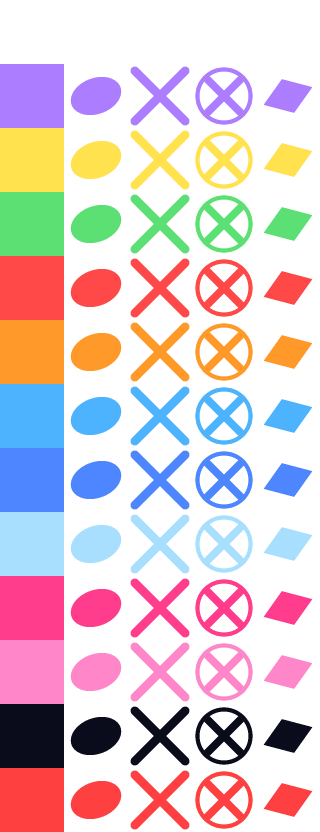
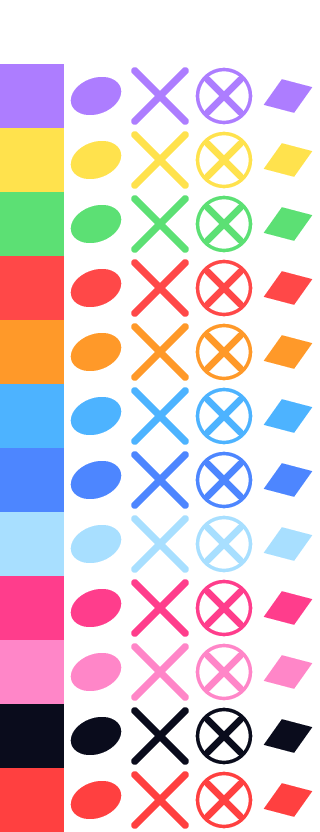
Notation view: smaller noteheads, slower scroll, smoke at SPEED 2.0
The smoke frames showed eighth-note hi-hats merging into one continuous
chain of X's, so:

- the x head drops from a 50 px cell (46 px of ink, 6.7 px strokes) to a
  40 px cell (36 px = one staff space, 4.5 px strokes), the circled x to
  42 px to match, and the round head from 54 to 48 px (38 x 29 px ink).
  The sprite sheet is regenerated for the thinner strokes, so the whole
  Runtime folder has to ship again. Ledger lines, beams and the playhead
  glow shrink to suit, and the stem attachment maths follows the new
  cell sizes (x arm tip at 15 px, ring at 18, ellipse edge at 18).
- X_SCALE 0.66 -> 0.80: about 1.65 bars of 4/4 at 120 BPM at SPEED 2.0,
  with eighths 72 px apart.
- a note sitting right at the beam line (the left crash on its second
  ledger line) no longer pushes a lone stem spike far above the beams;
  it keeps an 8 px nub instead.
- the smoke job now runs at DrumsScrollSpeed=3, which is the SPEED 2.0
  the owner plays at, and leaves SD off auto-play so the frames exercise
  the miss path (MISS popups, combo break, judgement lane flash).
- lane labels go from 13 to 15 pt now that they are measured: the glyphs
  were 12 px of capital in an 18 px lane pitch.

Claude-Session: https://claude.ai/code/session_01WKgs6DwHtoEQb9UfLX31gJ

diff --git a/DTXMania/Code/Stage/07.Performance/DrumsScreen/CActPerfDrumsNotation.cs b/DTXMania/Code/Stage/07.Performance/DrumsScreen/CActPerfDrumsNotation.cs
@@ -38,13 +38,13 @@ namespace DTXMania
                                                                     // ledger line, and the beams sit on that line
         public const int STEM_BOTTOM_Y = STAFF_BOTTOM_Y + 80;       // 460: every down-stem ends here
         public const int BAR_NUMBER_Y = 4;                          // bar number text, along the band top
-        public const double X_SCALE = 0.66;                         // horizontal px per vertical-lane px.
+        public const double X_SCALE = 0.80;                         // horizontal px per vertical-lane px.
                                                                     // The engine gives us (SPEED * 0.3575) lane px
                                                                     // per ms, so at the SPEED 2.0 setting this shows
-                                                                    // 940/(0.66*0.3575) = 4000 ms ahead = two 4/4
-                                                                    // bars at 120 BPM. The in-game SPEED setting
-                                                                    // still scales it: SPEED 1.0 shows twice as
-                                                                    // much, SPEED 4.0 half as much.
+                                                                    // 940/(0.80*0.3575) = 3290 ms ahead, about 1.65
+                                                                    // bars of 4/4 at 120 BPM, with eighths 72 px
+                                                                    // apart. The in-game SPEED setting still scales
+                                                                    // it: SPEED 1.0 shows twice as much, 4.0 half.
         public const int LOOKAHEAD_PX = 1500;                       // the chip loop normally stops feeding us chips
                                                                     // past 600 lane px, which at this X_SCALE would
                                                                     // leave the right half of the band empty
@@ -85,21 +85,21 @@ namespace DTXMania
         public const float JUDGE_SCALE = 0.8f;
 
         // Sizes derived from the staff spacing (36 px).
-        private const int HEAD_W = 54;              // round notehead cell -> 42 x 32 px head (1.2 x 0.9 spaces)
-        private const int XHEAD_W = 50;             // x notehead cell     -> 46 px wide, 6.7 px strokes
-        private const int CIRCLEX_W = 54;           // circled x (open hi-hat)
+        private const int HEAD_W = 48;              // round notehead cell -> 38 x 29 px head (1.05 x 0.8 spaces)
+        private const int XHEAD_W = 40;             // x notehead cell     -> 36 px = one space, 4.5 px strokes
+        private const int CIRCLEX_W = 42;           // circled x (open hi-hat) -> 37 px ring, matching the x
         private const int STEM_W = 4;
         private const int STEM_BITE = 4;            // round heads: the stem is set this far inside the right edge
-        private const int LEDGER_W = 62;
+        private const int LEDGER_W = 54;
         private const int LEDGER_H = 4;
         private const int LINE_H = 3;               // staff line thickness
         private const int BAR_LINE_LEAD = 20;       // bar / beat lines are drawn this far left of the
                                                     // notes on that beat, so they never run through a head
-        private const int MIN_STEM_LEN = 2 * STAFF_SPACE;   // a note close to STEM_TOP_Y (the left crash on its
-                                                            // second ledger line) pushes its own stem up so it
-                                                            // never ends up a stub
-        private const int BEAM_H = 6;
-        private const int BEAM_GAP = 11;
+        private const int MIN_STEM_LEN = 8;         // a note sitting at the beam line (the left crash on its
+                                                    // second ledger line) keeps a short nub of a stem rather
+                                                    // than pushing a lone spike above the beams
+        private const int BEAM_H = 5;
+        private const int BEAM_GAP = 10;
         private const bool BEAMS = true;            // join notes of the same beat with a beam
 
         // Lane legend down the left edge of the band: one column, one label per lane. At 36 px
@@ -107,14 +107,15 @@ namespace DTXMania
         private const int LABEL_X = 8;
         private const int LABEL_GUTTER_W = 150;     // darker strip the legend sits on; the staff lines and the
                                                     // playhead region start after it so nothing strikes the text
-        private const int LABEL_FONT_SIZE = 13;     // points -> about 17 px of glyph
+        private const int LABEL_FONT_SIZE = 15;     // points -> about 14 px of capital, which still clears
+                                                    // the 18 px between two lane positions
 
         // Hit feedback: the lane the player just hit lights up across the part of the band that has
         // already gone by, plus a glow at the playhead, fading out over LANE_FLASH_MS.
         private const int LANE_FLASH_MS = 150;
         private const int LANE_FLASH_ALPHA = 120;
         private const int LANE_GLOW_ALPHA = 210;
-        private const int LANE_GLOW_W = 46;
+        private const int LANE_GLOW_W = 40;
         private const int POS_MIN = -1;             // lowest staff position any voice uses (left pedal)
         private const int POS_MAX = 12;             // highest (left crash on its second ledger line)
 
@@ -525,7 +526,7 @@ namespace DTXMania
         /// <summary>
         /// Where a stem meets this head, as a distance from the head centre. The sprite cells do not
         /// fill their 64 px box: the ellipse and diamond reach 25.2/32 of the half cell, the circled
-        /// x's ring 28.6/32, and an x head's arm *tips* sit at 25.2/32 diagonally (the x has no ink
+        /// x's ring 28.2/32, and an x head's arm *tips* sit at 25.2/32 diagonally (the x has no ink
         /// at the head's own height, which is why its stem attaches at the arm tip instead).
         /// </summary>
         private static int nHeadHalfWidth(int nShape)
@@ -533,9 +534,9 @@ namespace DTXMania
             int nCell = nHeadCell(nShape);
             switch (nShape)
             {
-                case SHAPE_X:        return nCell * 252 / 640;   // 50 -> 19  (arm tip, x and y)
-                case SHAPE_CIRCLE_X: return nCell * 286 / 640;   // 54 -> 24  (ring)
-                default:             return nCell * 252 / 640;   // 54 -> 21  (ellipse / diamond)
+                case SHAPE_X:        return nCell * 252 / 640;   // 40 -> 15  (arm tip, x and y)
+                case SHAPE_CIRCLE_X: return nCell * 282 / 640;   // 42 -> 18  (ring)
+                default:             return nCell * 252 / 640;   // 48 -> 18  (ellipse / diamond)
             }
         }
 
